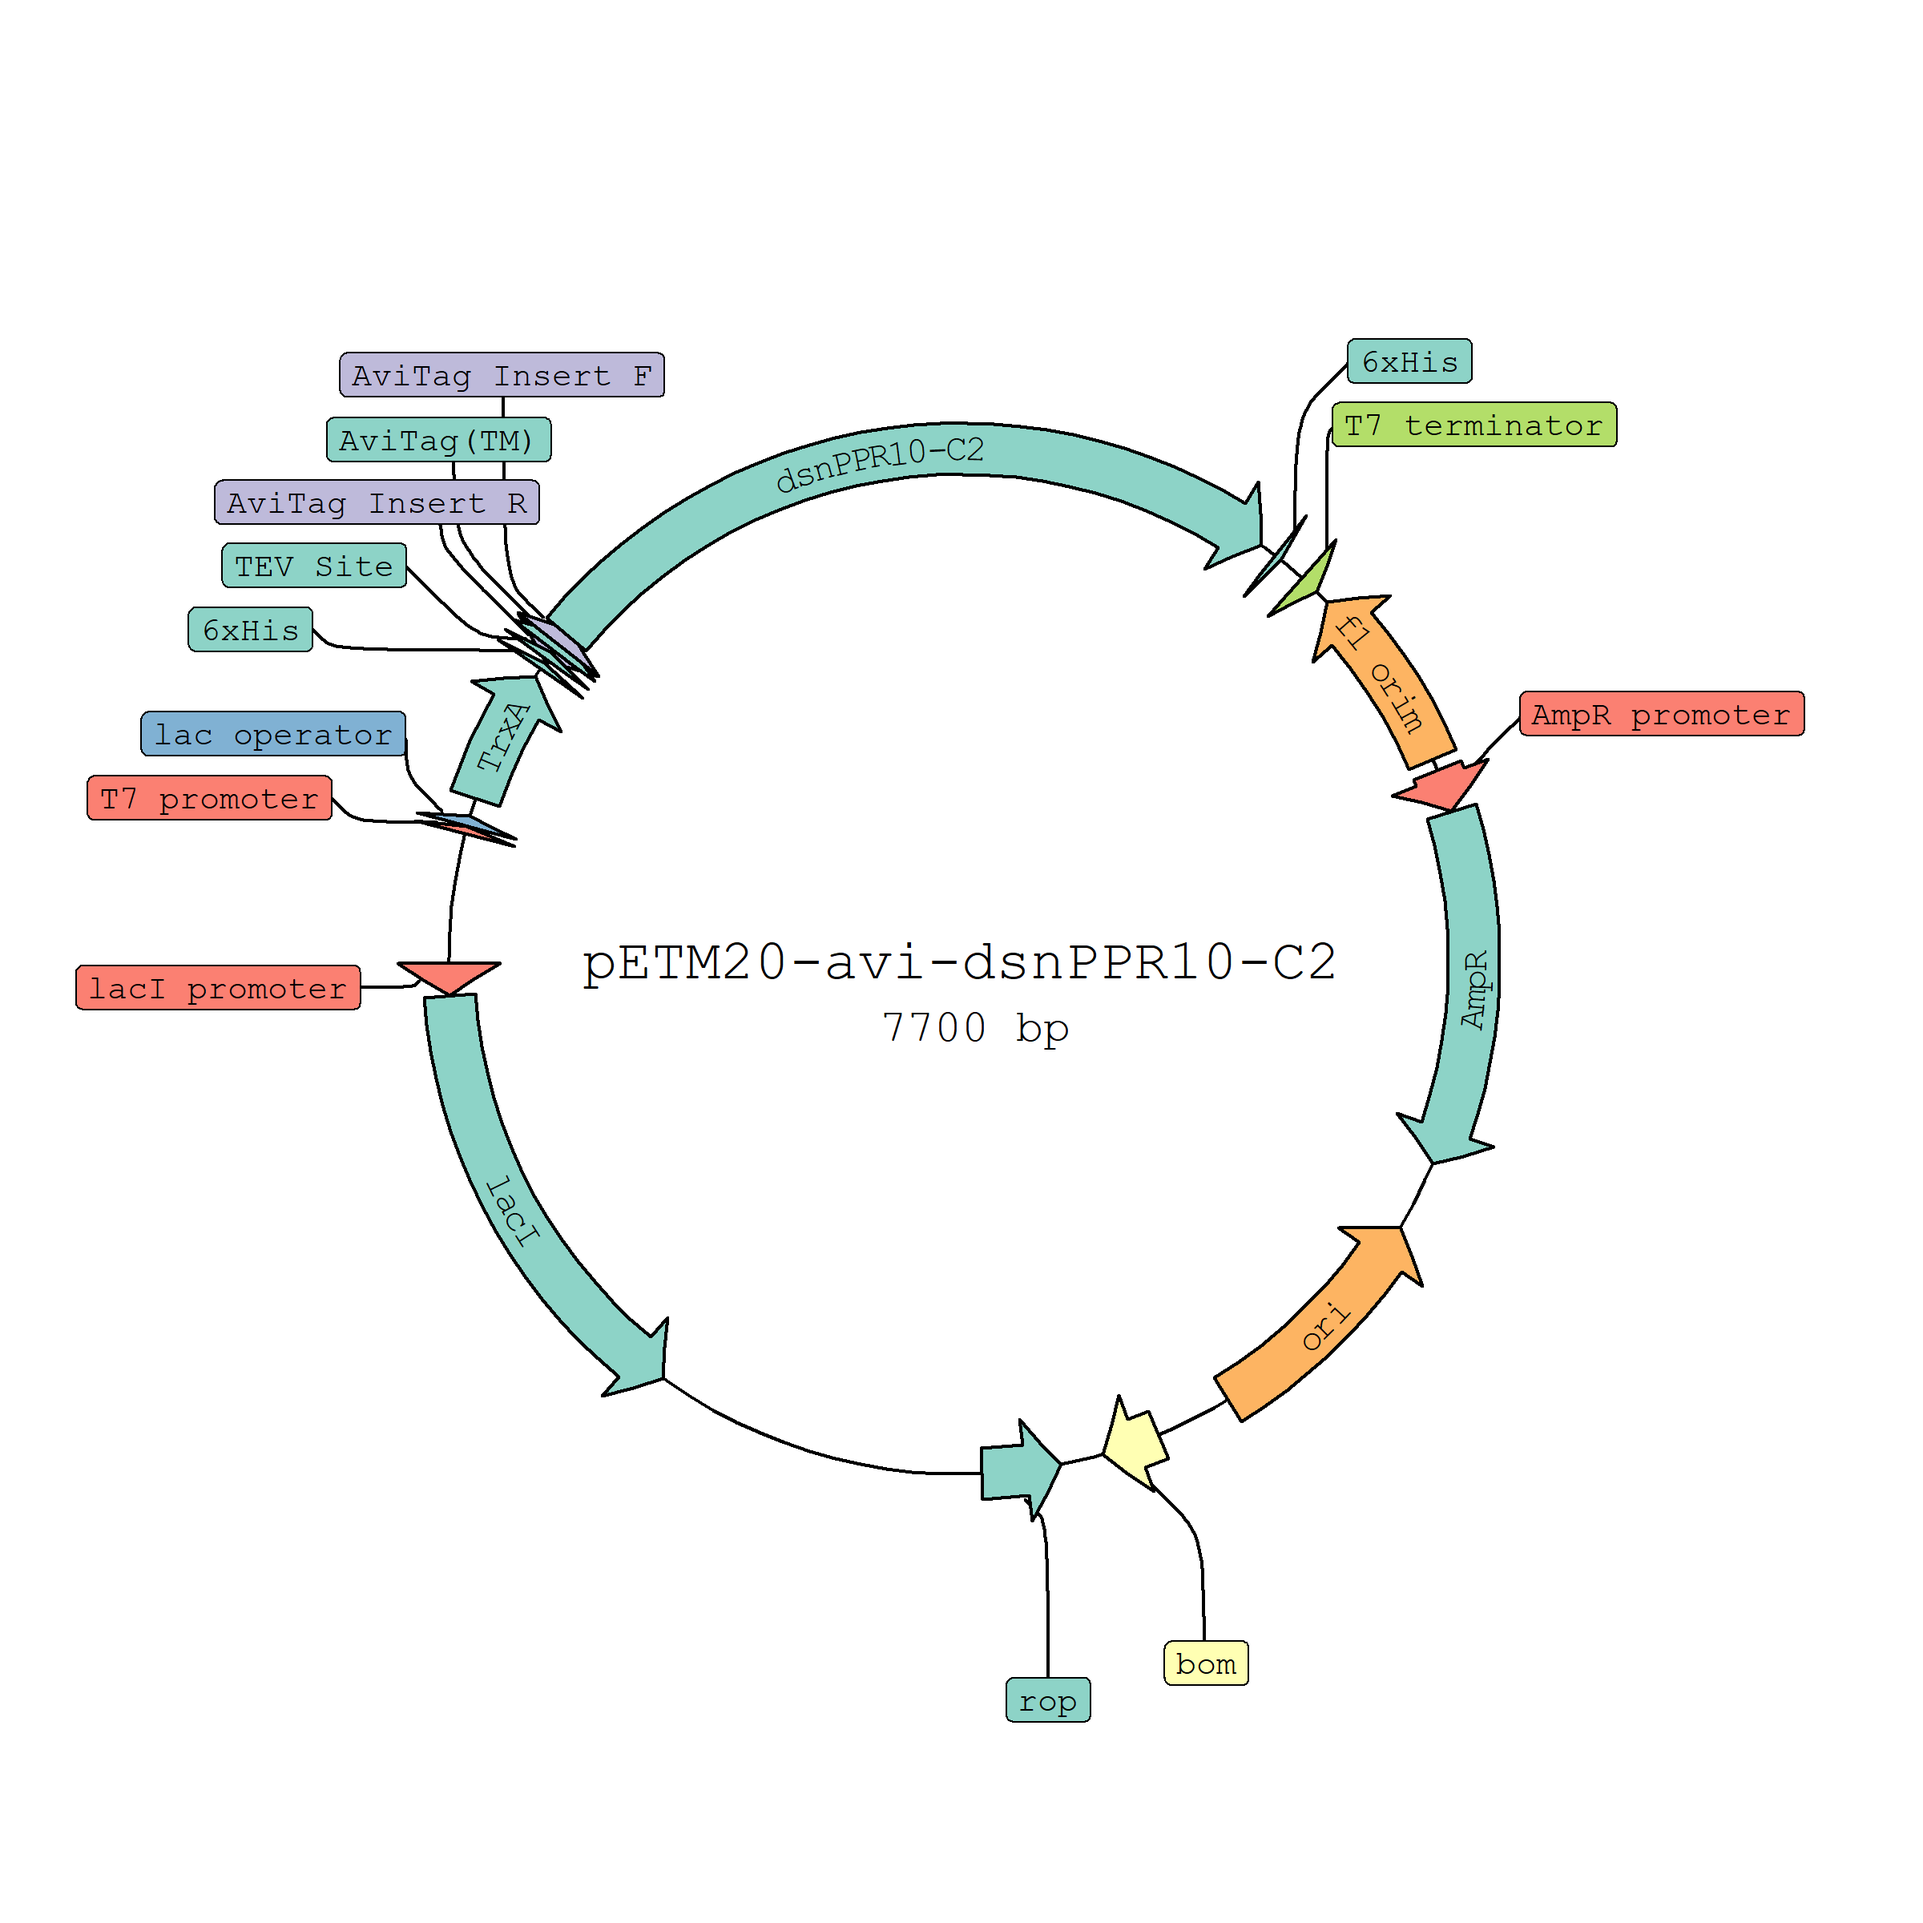
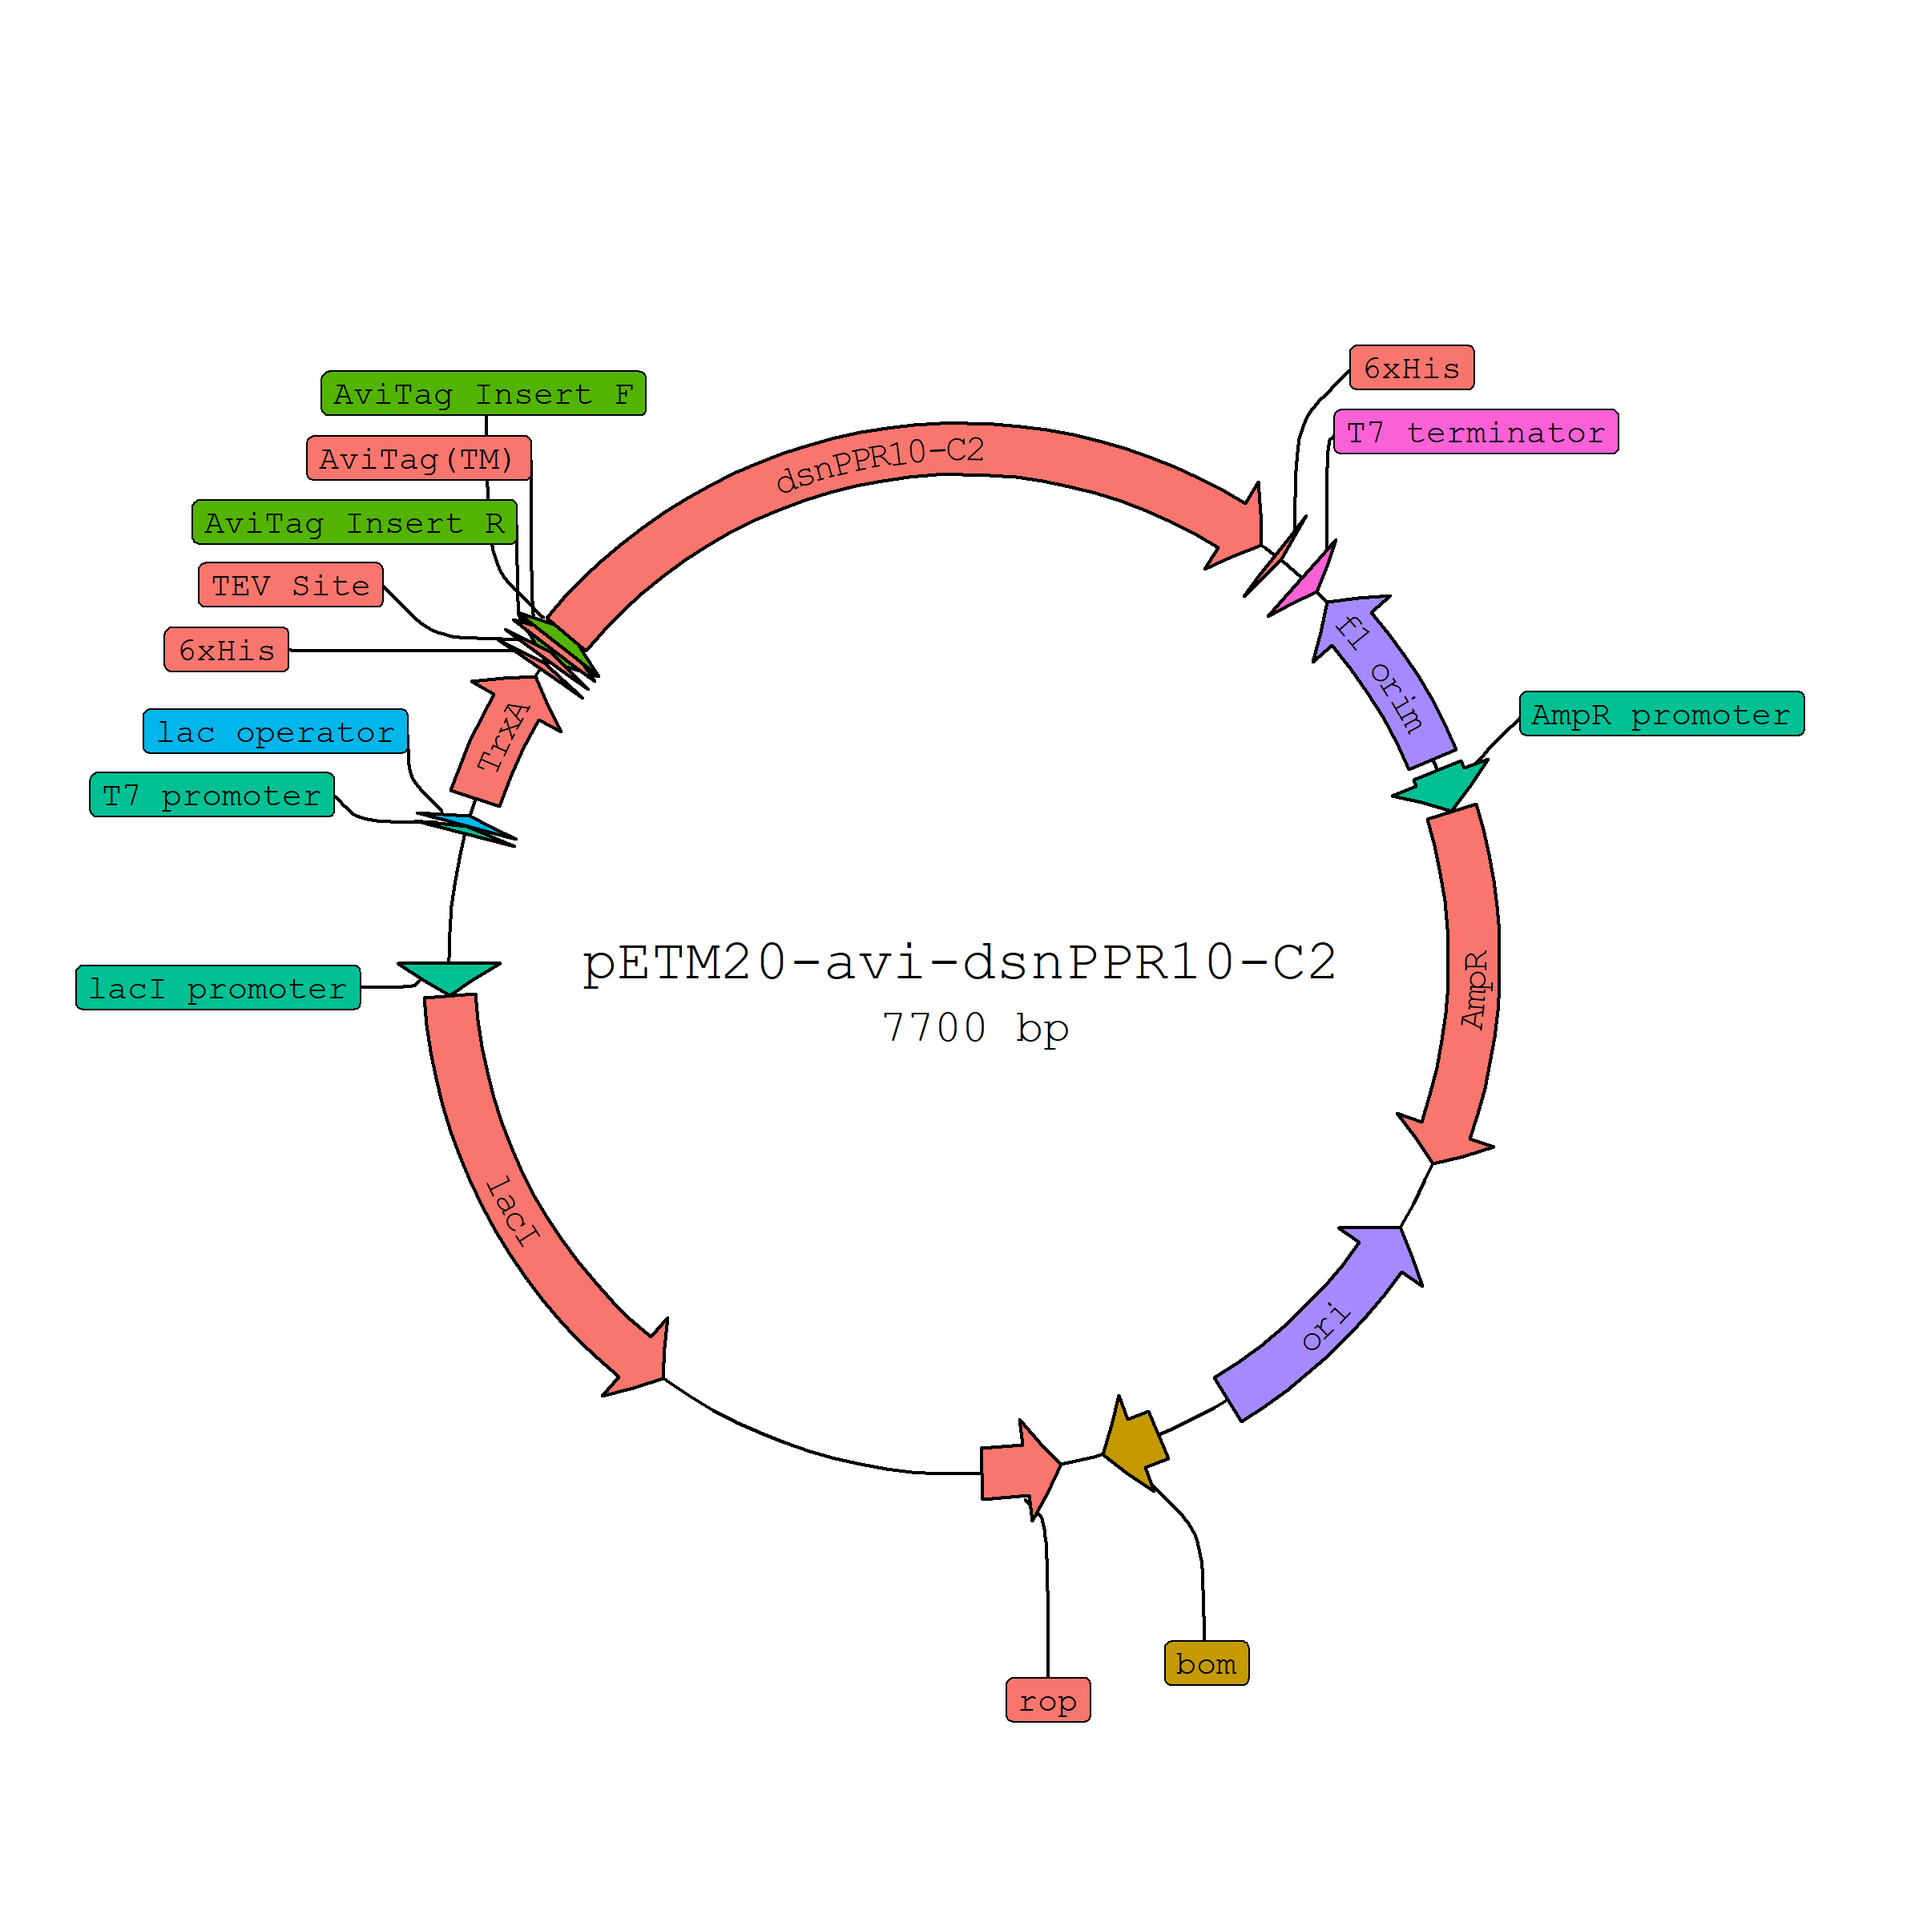
addition to readme

diff --git a/README.md b/README.md
@@ -2,14 +2,28 @@ plasmapR
 ================
 Brady Johnston
 
-## About
+# plasmapR
 
-Extension on the `{ggplot2}` graphics library for generating quick
-plasmid maps from FASTA / genbank files.
+This is an R package for making plasmid maps using `{ggplot2}`.
 
-The result of the `render_plasmid()` function is just a `ggplot` object,
-so you can add themes and treat it as you would any other `ggplot`
-object.
+## Installation
+
+> This package is still very early in development and the API may
+> change. The parses for .gb files works most of the time but has not
+> been tested extensively.
+
+``` r
+# install.packages("devtools")
+devtools::install_github("bradyajohnston/plasmapr")
+```
+
+## Example
+
+`plasmapR` provides functions for parsing and plotting .gb plasmid
+files.
+
+Once a plasmid has been exported in Genbank format it can be parsed and
+plotted.
 
 ``` r
 #devtools::install_github("bradyajohnston/plasmapR")
@@ -21,7 +35,53 @@ p <- render_plasmap(plasmid,
                     rotation = 45,
                     plasmid_name = "pETM20-avi-dsnPPR10-C2")
 
-p + ggplot2::scale_fill_brewer(palette = 8, type = "qual")
+p
 ```
 
 <img src="README_files/figure-gfm/example-1.png" style="display: block; margin: auto;" />
+
+## Under the Hood
+
+The result of the `render_plasmid()` function is just a `ggplot` object,
+so you can add themes and treat it as you would any other `ggplot`
+object.
+
+``` r
+p <- p + ggplot2::scale_fill_brewer(palette = 8, type = "qual")
+
+p
+```
+
+![](README_files/figure-gfm/colouring-1.png)<!-- -->
+
+Coordinates have been transformed with `coord_polar()` but everything
+else remains the same.
+
+``` r
+p + 
+  ggplot2::theme_dark() + 
+  ggplot2::theme(legend.position = "top")
+```
+
+<img src="README_files/figure-gfm/example2-1.png" style="display: block; margin: auto;" />
+
+## Major Limitations
+
+Currently the method for curving the text results in the problem of
+resizing. The individual characters are spaced based on the underlying
+base pair counts, not plot coordinates. If you scale the plot, things
+start to break down pretty quickly.
+
+I’m working on an fix that will allow resizing and scaling of the whole
+plot, but currently defaults are set up for a plot width and height of 8
+inches each.
+
+``` r
+knitr::opts_chunk$set(fig.width = 4, fig.height = 4)
+```
+
+``` r
+p
+```
+
+<img src="README_files/figure-gfm/example3-1.png" style="display: block; margin: auto;" />
